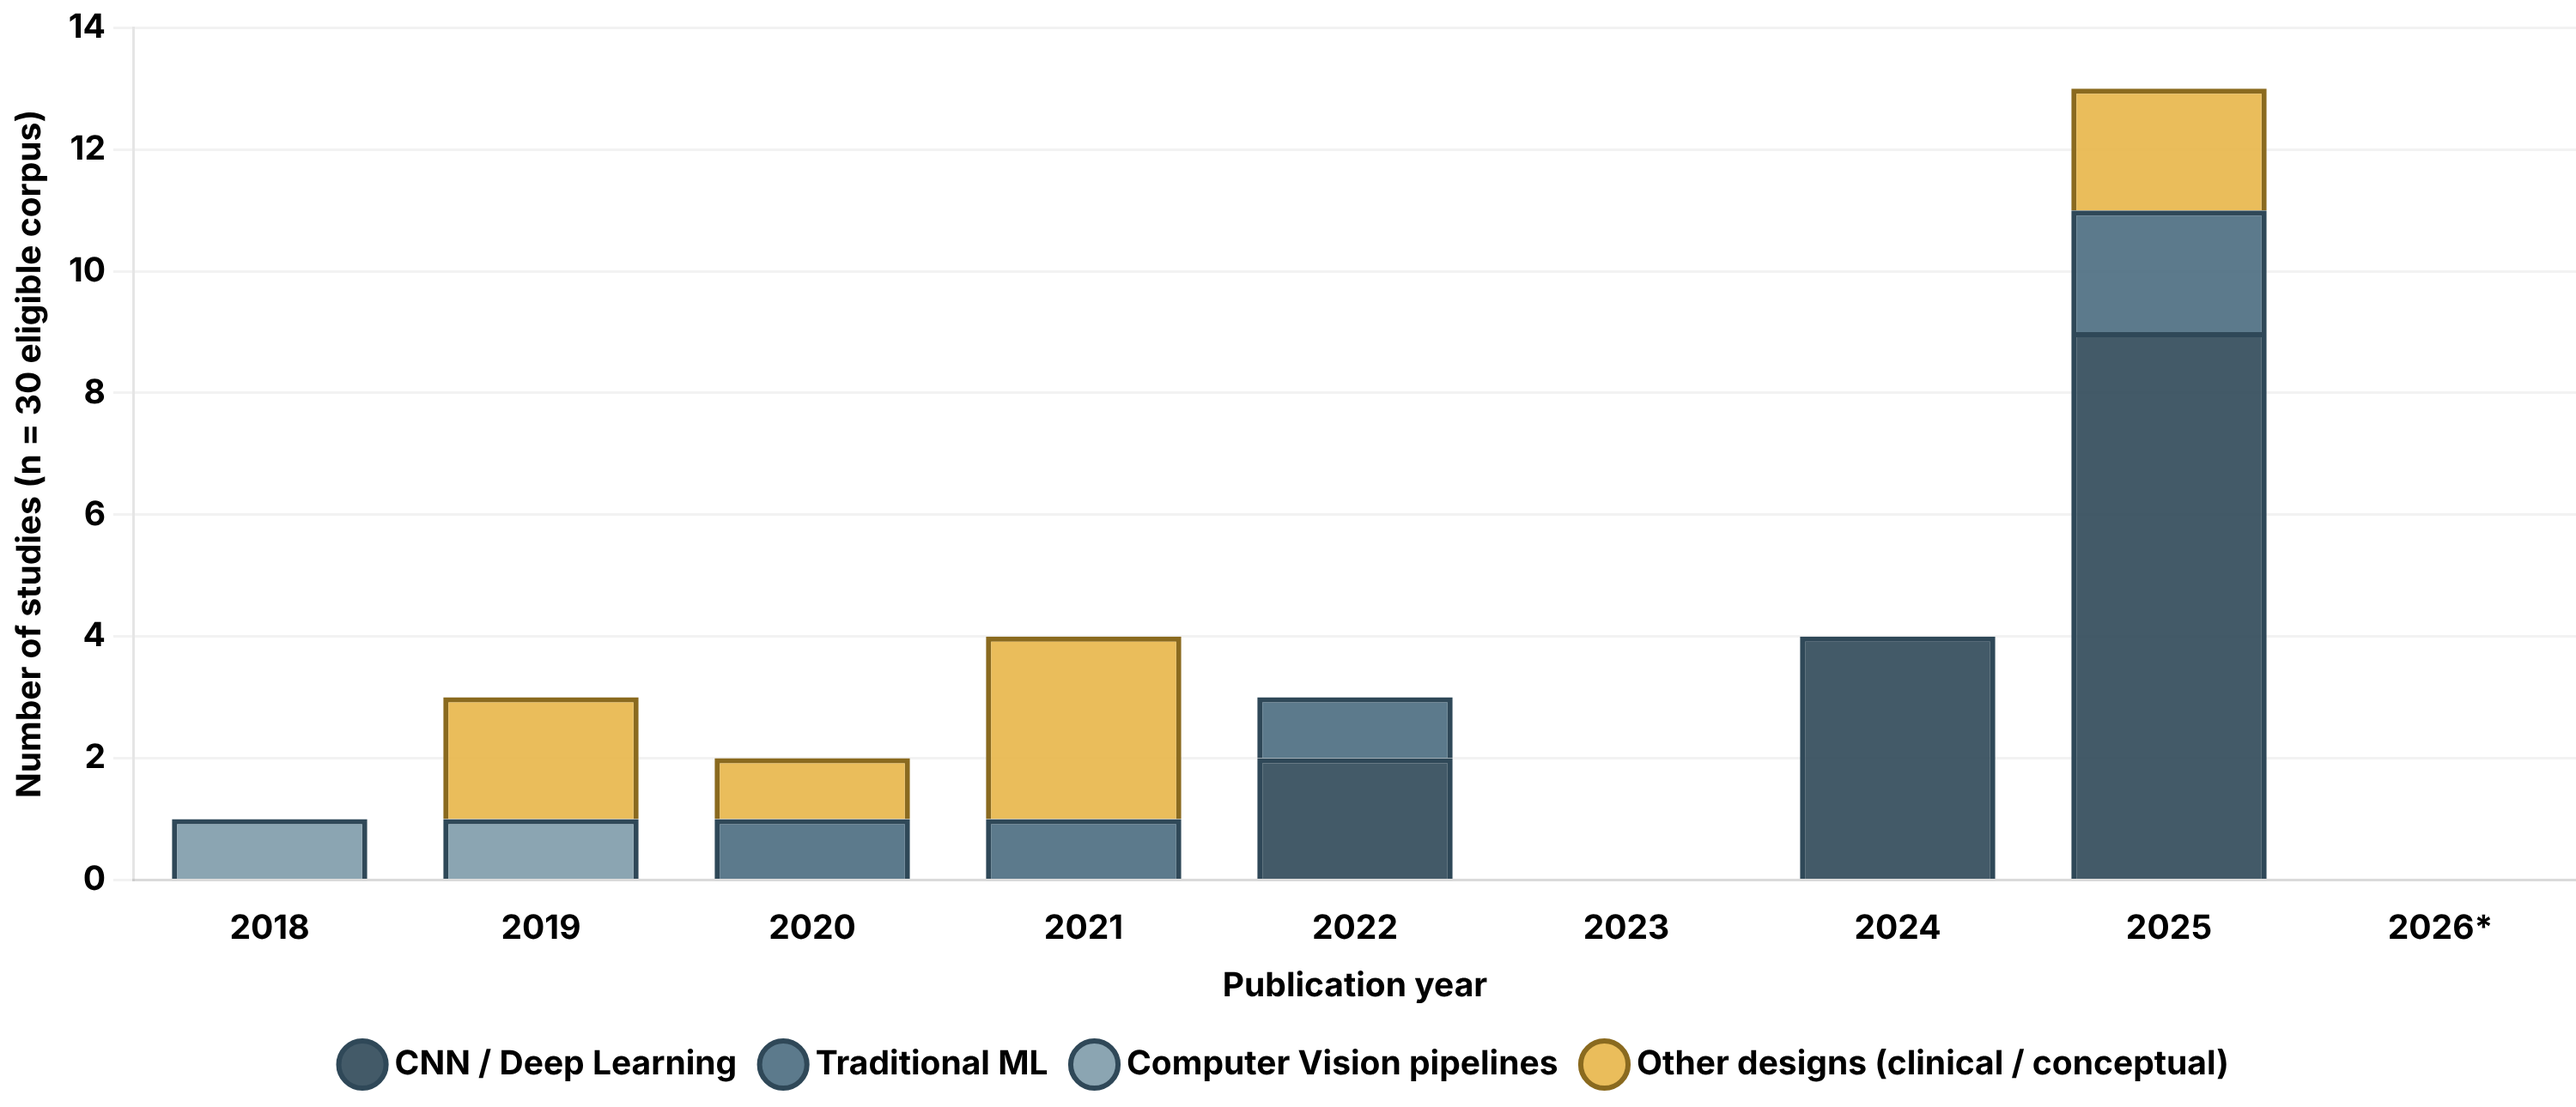
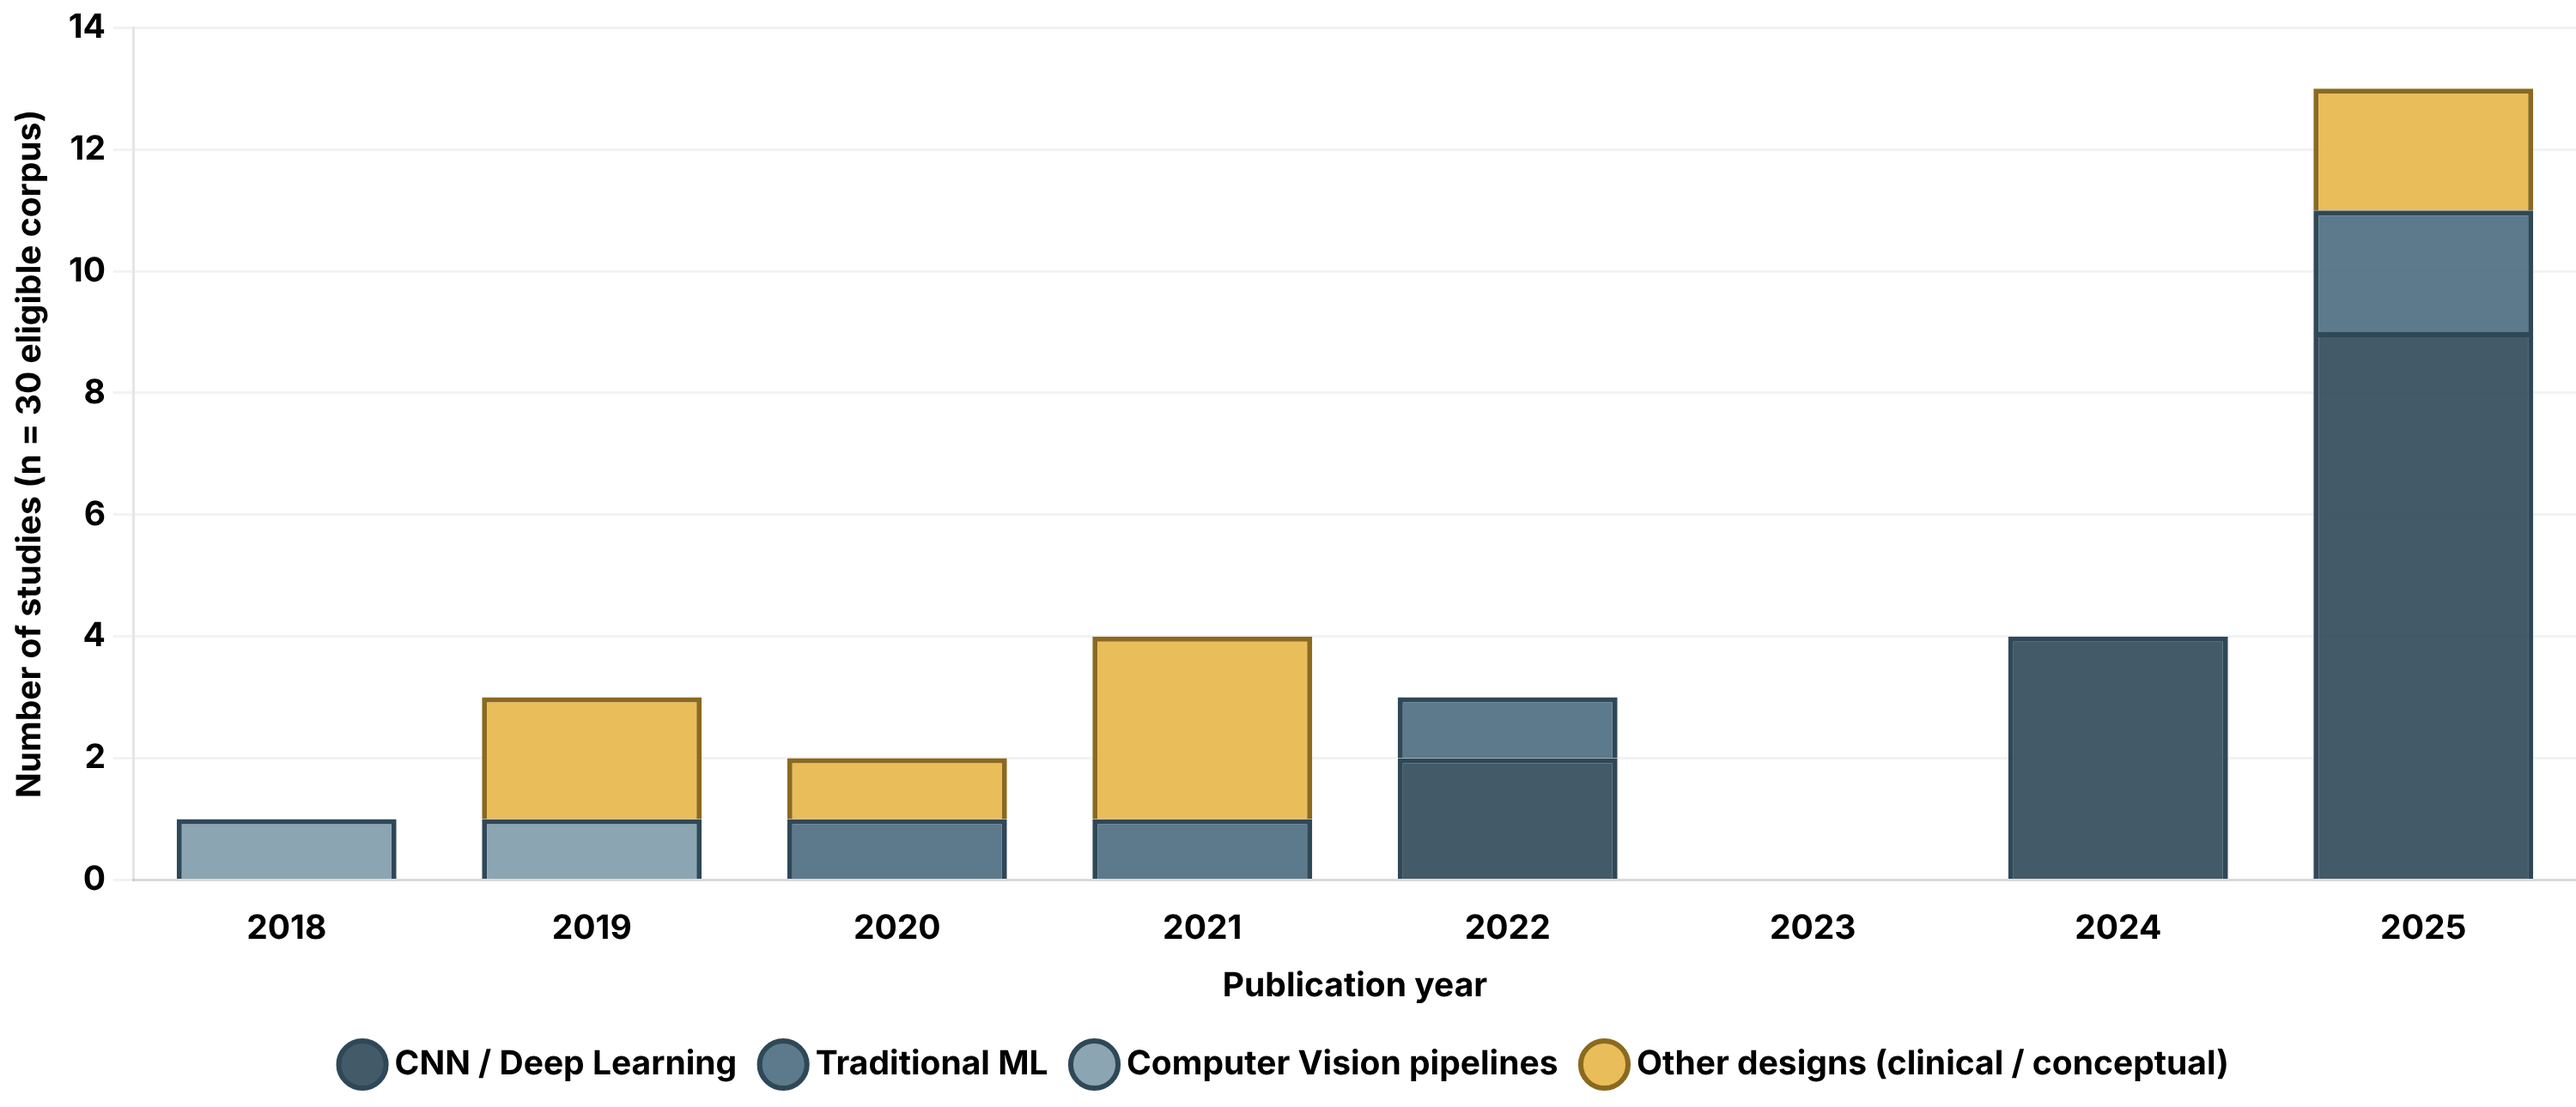
docs: record commit c7cd7df, end Figure 8 at 2025 and add the SHA-256 checksums of the final PDFs

diff --git a/pipeline/figure_data.js b/pipeline/figure_data.js
@@ -136,8 +136,7 @@ window.FIGURE_DATA = {
     "2022",
     "2023",
     "2024",
-    "2025",
-    "2026*"
+    "2025"
   ],
   "temporal": {
     "CNN / Deep Learning": [
@@ -148,8 +147,7 @@ window.FIGURE_DATA = {
       2,
       0,
       4,
-      9,
-      0
+      9
     ],
     "Traditional ML": [
       0,
@@ -159,13 +157,11 @@ window.FIGURE_DATA = {
       1,
       0,
       0,
-      2,
-      0
+      2
     ],
     "Computer Vision pipelines": [
       1,
       1,
-      0,
       0,
       0,
       0,
@@ -181,8 +177,7 @@ window.FIGURE_DATA = {
       0,
       0,
       0,
-      2,
-      0
+      2
     ]
   },
   "domains": {

diff --git a/pipeline/compute_frequencies.py b/pipeline/compute_frequencies.py
@@ -41,7 +41,6 @@ EXPECTED = {
     "translational": 17,
     "challenge_any": 18,
 }
-CURRENT_PARTIAL_YEAR = 2026
 
 
 def load(path=MASTER):
@@ -84,7 +83,7 @@ def compute(rows):
         {"label": label, "n": sum(flag(r, key) for r in supervised), "pct": round(100 * sum(flag(r, key) for r in supervised) / len(supervised))}
         for key, label in METRICS
     ]
-    years = list(range(min(int(r["year"]) for r in rows), max(max(int(r["year"]) for r in rows), CURRENT_PARTIAL_YEAR) + 1))
+    years = list(range(min(int(r["year"]) for r in rows), max(int(r["year"]) for r in rows) + 1))
     datasets = Counter(r["dataset_category"] for r in rows)
     inputs = Counter(r["input_group"] for r in rows)
     temporal = {fam: [sum(r["model_family"] == fam and int(r["year"]) == y for r in rows) for y in years] for fam in FAMILIES}
@@ -100,7 +99,7 @@ def compute(rows):
         "metrics": metrics,
         "datasets": dict(datasets),
         "inputs": {k: {"n": v, "pct": pct(v, n)} for k, v in inputs.most_common()},
-        "years": [f"{y}*" if y == CURRENT_PARTIAL_YEAR else str(y) for y in years],
+        "years": [str(y) for y in years],
         "temporal": temporal,
         "domains": dict(Counter(r["domain"] for r in rows)),
         "primary_evidence": sum(flag(r, "primary_evidence") for r in rows),

diff --git a/CHANGELOG.md b/CHANGELOG.md
@@ -147,8 +147,8 @@ N36-01 to N36-06 and the closure plan).
 - README: RQ3 base set to 26 studies (25 with numeric values), clinical performance
   values by domain updated, Fan et al. 97.6% described as feedback accuracy, the four
   retractions found in V3.6 described, and the Shi et al. session count corrected.
-- CHANGELOG: the six earlier entries marked PENDING were manuscript-only changes made in
-  Overleaf and are now labelled as such.
+- CHANGELOG: the six earlier entries without a commit hash were manuscript-only changes
+  made in Overleaf and are now labelled as such.
 
 ### Changed (audit of criterion CI(3), 2026-11-10)
 - Criterion CI(3) audited against the SCImago edition of the year of first online
@@ -270,6 +270,23 @@ N36-01 to N36-06 and the closure plan).
   DOI already used in the manuscript. Corrected in `data/screening_log.csv` and S5; the
   raw export `data/web-of-science-data.csv` and `data/records_deduplicated.csv` keep the
   exported value so that deduplication stays reproducible.
+### Release (closure of V3.6, 2026-11-14)
+- `CHECKSUMS.sha256`: SHA-256 of the three final PDFs compiled in Overleaf from the
+  closed sources: the internal Wiley version (`willey.pdf`), the ElsArticle version
+  (`elsarticle.pdf`) and the anonymised submission to Cognitive Systems Research
+  (`manuscript_anonymised.pdf`). Addresses advisory I-04, N35-04 and closure plan item 06.
+- Manuscript-only correction before compiling: RQ2 text and the note of the table of
+  reported values said that seven studies report AUC; the extraction matrix gives nine
+  (Shaik, Hassan, Alam, Aljbori, Vedantham, Shi, Silva, Carpenter and Han). Shaik et al.
+  (2025) added to the list of AUC values obtained on images without clinical traceability.
+- Figure 8 now ends at 2025: no eligible study has 2026 as year of first online
+  publication, so the empty 2026 column and its asterisk were removed.
+  `pipeline/compute_frequencies.py` no longer pads the series to the current partial
+  year; `pipeline/figure_data.js` and `results/fig_8_temporal.png` regenerated. The
+  manuscript caption of Figure 8 was updated, and the empty 2026 column of the
+  manuscript table of model families by year was removed as well (totals unchanged).
+- Tag `v3.6` moved from `c7cd7df` to the closing commit; no entry of V3.6 remains without
+  a commit hash.
 ### Commits
 - `d1fb7e6` 2026-11-07 feat: add extraction master and compute all figures from it, add licenses, update README
 - `3791adb` 2026-11-08 feat: reconstruct screening flow with reproducible deduplication and explicit scope criterion
@@ -284,7 +301,8 @@ N36-01 to N36-06 and the closure plan).
 - `ecf7ed1` 2026-11-12 docs: add claim-citation-evidence matrix S6 and fix manuscript table numbers in S2 and S4
 - `f9e0989` 2026-11-13 fix: check the eligible corpus against full texts and move Cicceri et al. to contextual evidence
 - `ab38f69` 2026-11-13 docs: record commit f9e0989 and correct the DOI of Akın-Bülbül et al. in the screening log
-- `PENDING` 2026-11-13 docs: record commit ab38f69 and note the citation style of the manuscript in S6
+- `c7cd7df` 2026-11-13 docs: record commit ab38f69 and note the citation style of the manuscript in S6
+- `v3.6` 2026-11-14 docs: record commit c7cd7df, end Figure 8 at 2025 and add the SHA-256 checksums of the final PDFs (closing commit of V3.6; its hash is the target of tag `v3.6`)
 
 ---
 
